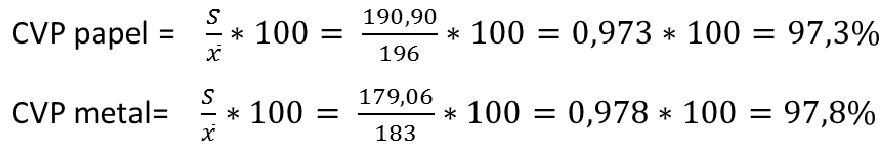
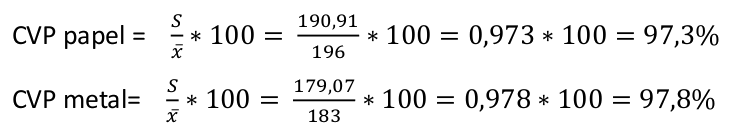
[Objeto 3] Corrigido valores e imagens (alterados por causa do arredondamento)

diff --git a/Projeto/Objeto 3/assets/parts/coeficiente-variacao.html b/Projeto/Objeto 3/assets/parts/coeficiente-variacao.html
@@ -119,19 +119,19 @@
 					<tr>
 						<td>Papel</td>
 						<td>196</td>
-						<td>190,9</td>
+						<td>190,91</td>
 					</tr>
 					<tr>
 						<td>Metal</td>
 						<td>183</td>
-						<td>179,06</td>
+						<td>179,07</td>
 					</tr>
 				</table>
 			</div>
 
 		</div>
 
-		<div class="col-xs-12">
+		<div class="col-xs-12 muitissimo-mais-bottom">
 			<h4>Qual dos materiais (Papel ou Metal) possui maior homogeneidade ?</h4>
 
 			<h4>Teremos que calcular o <b>CVP</b> (Coeficiente de Variação de Pearson) do <b>Papel</b> e do <b>Metal</b>. O <b>resultado menor</b> será o de <b>maior homogenidade</b> (menor dispersão ou variabilidade).</h4>
